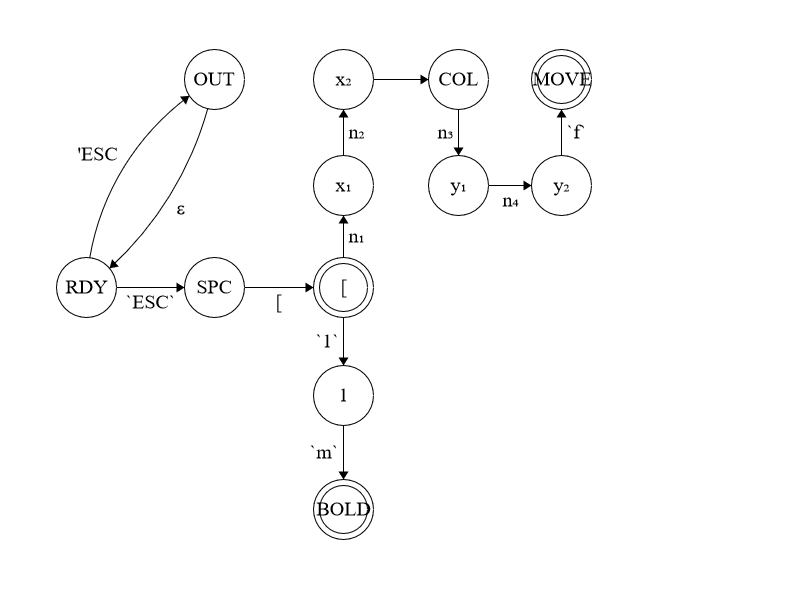
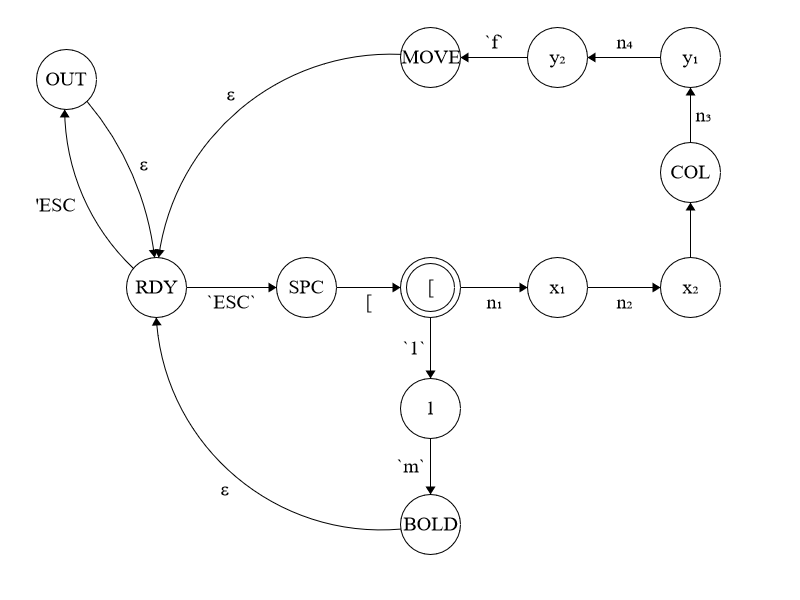
T+1hr20min: Minor corrections to state diagrams.

diff --git a/theory/ANSWERS.md b/theory/ANSWERS.md
@@ -91,3 +91,5 @@ const regex = /\x1b\[m1/;
     character sequences as well as the two above ESC sequences.
 
 ![state3](img/state3.png)
+
+*Any input to a given state not shown is assumed to transition to an `ERROR` state, then goes to `RDY` with no further input (`ε` input).*
